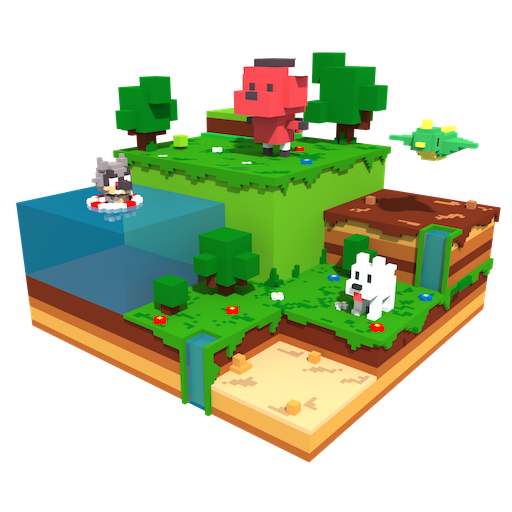
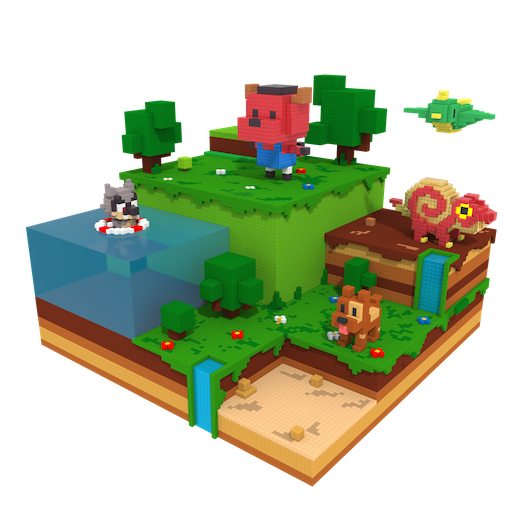
[home] update images

diff --git a/src/views/containers/HomePage/Home.jsx b/src/views/containers/HomePage/Home.jsx
@@ -28,9 +28,11 @@ const _features = [
   {img: require('../../../shared/img/assets/model_example_1.png'), title: 'market', desc: 'desc.market'},
   {img: require('../../../shared/img/assets/model_example_1.png'), title: 'battle', desc: 'desc.battle'},
 ];
-const introCubegon = [{img: require('../../../shared/img/assets/model_example_1.png'), name: 'KYARI', creator: 'Nhu'},
+const introCubegon = [
+  {img: require('../../../shared/img/assets/model_example_moose.png'), name: 'MOOSE', creator: 'Nhu'},
   {img: require('../../../shared/img/assets/model_example_2.png'), name: 'VEXIGON', creator: 'Nhu'},
-  {img: require('../../../shared/img/assets/model_example_3.png'), name: 'DILOOM', creator: 'Nhu'}];
+  {img: require('../../../shared/img/assets/model_example_bull.png'), name: 'BULLO', creator: 'Nhu'}
+];
 const channels = [{img: require('../../../shared/img/socialMedia/icon-white-discord.png'), name: 'DISCORD', link: 'https://discordapp.com/invite/pYD5tss'},
                   {img: require('../../../shared/img/socialMedia/icon-white-twitter.png'), name: 'TWITTER', link: 'https://twitter.com/cubego_io'},
                   {img: require('../../../shared/img/socialMedia/icon-white-telegram.png'), name: 'TELEGRAM', link: 'https://t.me/cubego'}];
